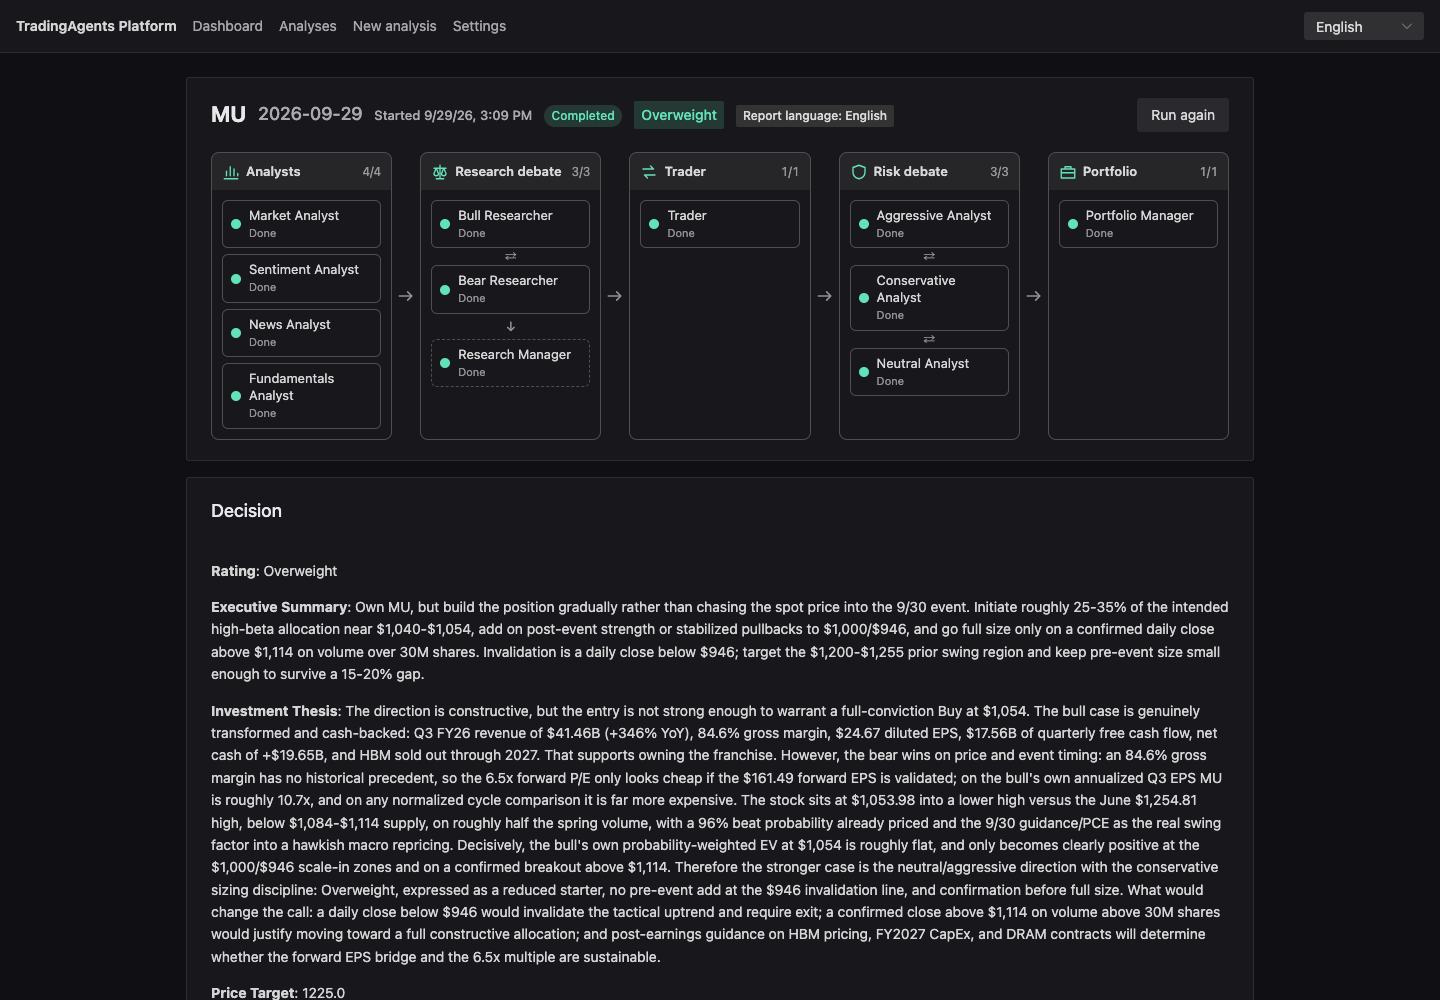
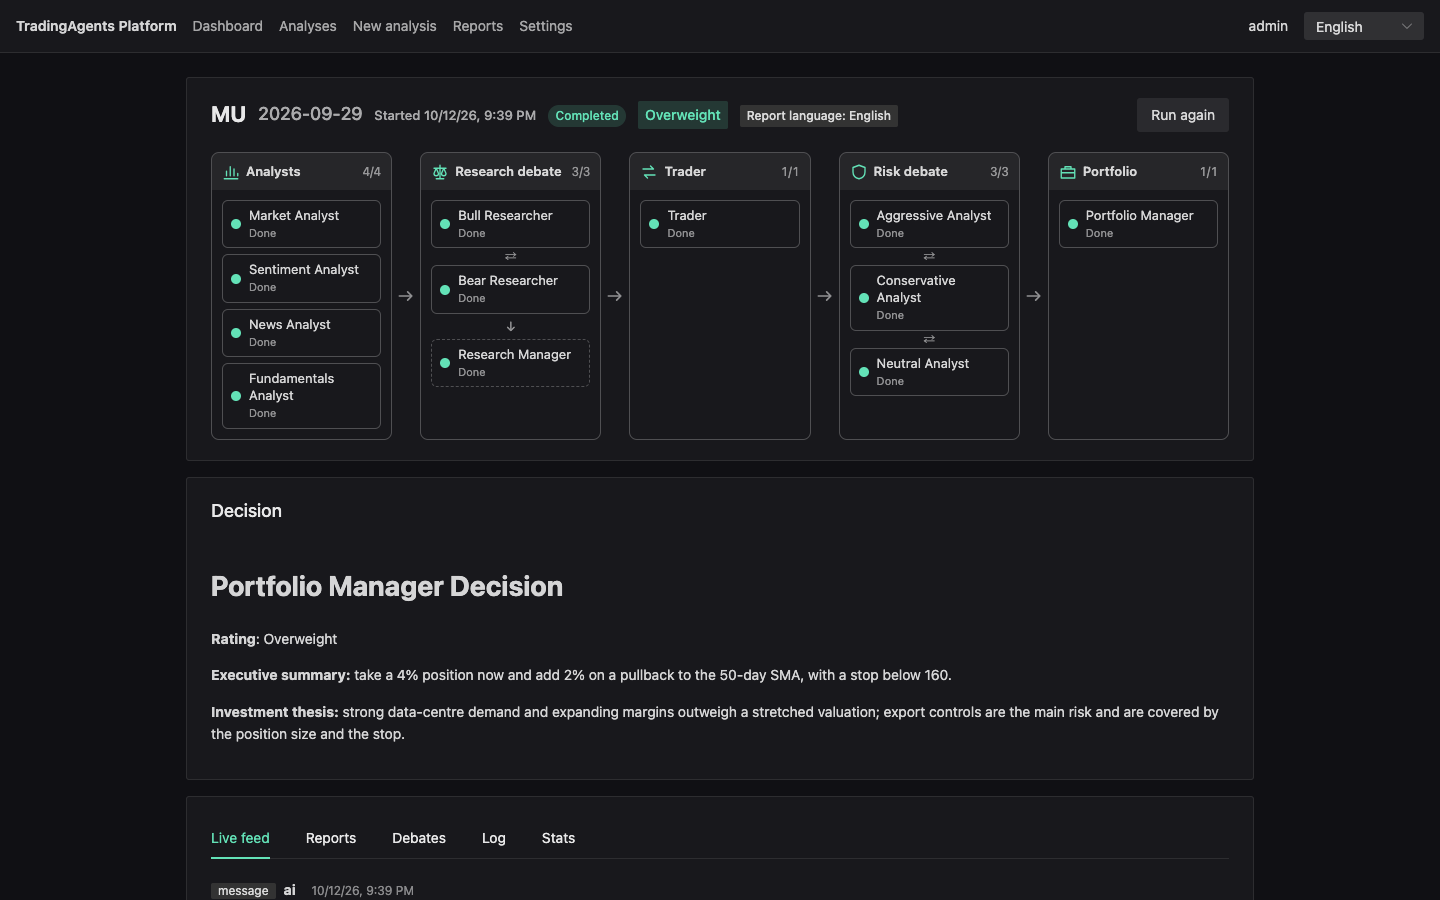
Take the remaining README screenshots as the first admin
Work-package: WP3

diff --git a/e2e/screenshots/pages.shot.ts b/e2e/screenshots/pages.shot.ts
@@ -1,0 +1,80 @@
+import { expect, test } from '@playwright/test'
+import { replayedRun } from './runs'
+import { shot } from './support'
+import { csrfHeaders } from '../tests/support'
+
+// README, "3. Add an API key": Settings with the provider keys.
+test('settings', async ({ page }) => {
+  await page.goto('/settings')
+  await expect(page.getByRole('row', { name: /OPENAI_API_KEY/ })).toBeVisible()
+  await shot(page, 'settings')
+})
+
+// README, "4. Start an analysis": the form, once the catalog has filled in the providers and models.
+test('new analysis form', async ({ page }) => {
+  await page.goto('/analyses/new')
+  await page.getByPlaceholder('e.g. NVDA, THYAO.IS, BTC-USD').fill('NVDA')
+  await expect(page.getByText(/This provider needs its key/)).toBeVisible({ timeout: 30_000 })
+  await shot(page, 'new-analysis')
+})
+
+// README, "4. Start an analysis": the presets listed in Settings.
+test('presets in settings', async ({ page, request }) => {
+  const headers = await csrfHeaders(request)
+  const values = {
+    llmProvider: 'deepseek',
+    deepThinkLlm: 'deepseek-v4-pro',
+    quickThinkLlm: 'deepseek-v4-flash',
+    outputLanguage: 'English',
+  }
+  for (const preset of [
+    {
+      name: 'DeepSeek, all analysts',
+      values: {
+        ...values,
+        analysts: ['market', 'social', 'news', 'fundamentals'],
+        maxDebateRounds: 2,
+        maxRiskDiscussRounds: 1,
+      },
+    },
+    {
+      name: 'Quick market check',
+      values: { ...values, analysts: ['market'], maxDebateRounds: 1, maxRiskDiscussRounds: 1 },
+    },
+  ]) {
+    const response = await request.post('/api/presets', { headers, data: preset })
+    expect(response.ok(), await response.text()).toBe(true)
+  }
+
+  await page.goto('/settings')
+  const deletes = page.getByRole('button', { name: 'Delete' })
+  await expect(deletes).toHaveCount(2)
+  // From the "Presets" heading down to the last row: the section has no element of its own.
+  const heading = await page.getByText('Presets', { exact: true }).last().boundingBox()
+  const last = await deletes.last().boundingBox()
+  expect(heading && last).toBeTruthy()
+  const y = heading!.y - 8
+  await shot(page, 'presets', undefined, {
+    x: 186,
+    y,
+    width: 1068,
+    height: last!.y + last!.height + 20 - y,
+  })
+})
+
+// README, "6. Past analyses": the Dashboard with the latest decisions.
+test('dashboard', async ({ page, request }) => {
+  await replayedRun(request, 'NVDA', '2026-09-28')
+  await page.goto('/')
+  await expect(page.getByText('Overweight').first()).toBeVisible()
+  await shot(page, 'dashboard')
+})
+
+// README, "7. Reports and export": the report list, contents and the report.
+test('reports', async ({ page, request }) => {
+  await replayedRun(request, 'NVDA', '2026-09-26')
+  await page.goto('/reports')
+  await page.getByRole('button', { name: /NVDA.*2026-09-26/ }).click()
+  await expect(page.getByRole('navigation', { name: 'Contents' })).toBeVisible()
+  await shot(page, 'reports')
+})

diff --git a/e2e/screenshots/run.shot.ts b/e2e/screenshots/run.shot.ts
@@ -1,0 +1,52 @@
+import { expect, test } from '@playwright/test'
+import { replayedRun } from './runs'
+import { shot } from './support'
+import { csrfHeaders, DECISION_TEXT } from '../tests/support'
+
+// README, "5. Watch it and read the results": a replayed run, live and finished.
+test('a running analysis', async ({ page, request }) => {
+  const started = await request.post('/api/analyses', {
+    headers: await csrfHeaders(request),
+    data: {
+      ticker: 'NVDA',
+      tradeDate: '2026-09-29',
+      analysts: ['MARKET', 'SOCIAL', 'NEWS', 'FUNDAMENTALS'],
+      llmProvider: 'openai',
+      deepThinkLlm: 'gpt-5.4-mini',
+      quickThinkLlm: 'gpt-5.4-mini',
+    },
+  })
+  expect(started.ok(), await started.text()).toBe(true)
+  const { id } = (await started.json()) as { id: string }
+
+  await page.goto(`/analyses/${id}`)
+  await expect(page.getByText('Running').first()).toBeVisible()
+  // The pipeline and the feed fill in while the recording plays (about nine seconds).
+  await expect(page.getByText('Market Analyst').first()).toBeVisible()
+  await expect(page.getByText('Connection lost')).toHaveCount(0)
+  await expect(page.getByText('Waiting for events')).toHaveCount(0)
+  await shot(page, 'run-live')
+})
+
+test('a finished analysis', async ({ page, request }) => {
+  const id = await replayedRun(request, 'MU', '2026-09-29')
+  await page.goto(`/analyses/${id}`)
+  await expect(page.getByText(DECISION_TEXT).first()).toBeVisible()
+  await expect(page.getByText('Completed', { exact: true })).toBeVisible()
+  await shot(page, 'run-decision')
+
+  const tab = (name: string) => page.locator('.n-tabs-tab', { hasText: name })
+  const panel = page.locator('.n-tabs-pane-wrapper')
+
+  await tab('Reports').click()
+  await expect(page.locator('.n-collapse-item__header').first()).toBeVisible()
+  await shot(page, 'run-reports', panel)
+
+  await tab('Debates').click()
+  await expect(panel).toBeVisible()
+  await shot(page, 'run-debates', panel)
+
+  await tab('Stats').click()
+  await expect(panel).toBeVisible()
+  await shot(page, 'run-stats', panel)
+})

diff --git a/e2e/screenshots/support.ts b/e2e/screenshots/support.ts
@@ -10,14 +10,22 @@ const DIR =
 
 /**
  * Saves the page (or one element of it) as docs/screenshots/<name>.png, once the page has settled:
- * no requests in flight, fonts loaded, no animation running.
+ * no requests in flight, fonts loaded, no animation running. A clip (page coordinates) saves that
+ * part of the whole page instead.
  */
-export async function shot(page: Page, name: string, target?: Locator) {
+export async function shot(
+  page: Page,
+  name: string,
+  target?: Locator,
+  clip?: { x: number; y: number; width: number; height: number },
+) {
   await page.waitForLoadState('networkidle')
   await page.evaluate(() => document.fonts.ready)
   mkdirSync(DIR, { recursive: true })
   const path = join(DIR, `${name}.png`)
   const options = { path, animations: 'disabled' as const }
-  await (target ? target.screenshot(options) : page.screenshot(options))
+  await (target
+    ? target.screenshot(options)
+    : page.screenshot({ ...options, clip, fullPage: !!clip }))
   return path
 }

diff --git a/.plans/82-first-admin-on-start.md b/.plans/82-first-admin-on-start.md
@@ -226,7 +226,7 @@ platform.admin.password=${PLATFORM_ADMIN_PASSWORD:}
 - **Steps**:
   - [x] The e2e changes listed in the design
   - [x] `mise run e2e` passes
-  - [ ] `mise run screenshots` retakes every screenshot; check each one shows the `admin` user menu in
+  - [x] `mise run screenshots` retakes every screenshot; check each one shows the `admin` user menu in
         the header and otherwise the same page as before, and `login.png` the empty login form
 - **Tests**: the whole e2e suite (`mise run e2e`), `auth.e2e.ts` in particular (login, wrong password,
   logout, redirect) as the configured admin.
